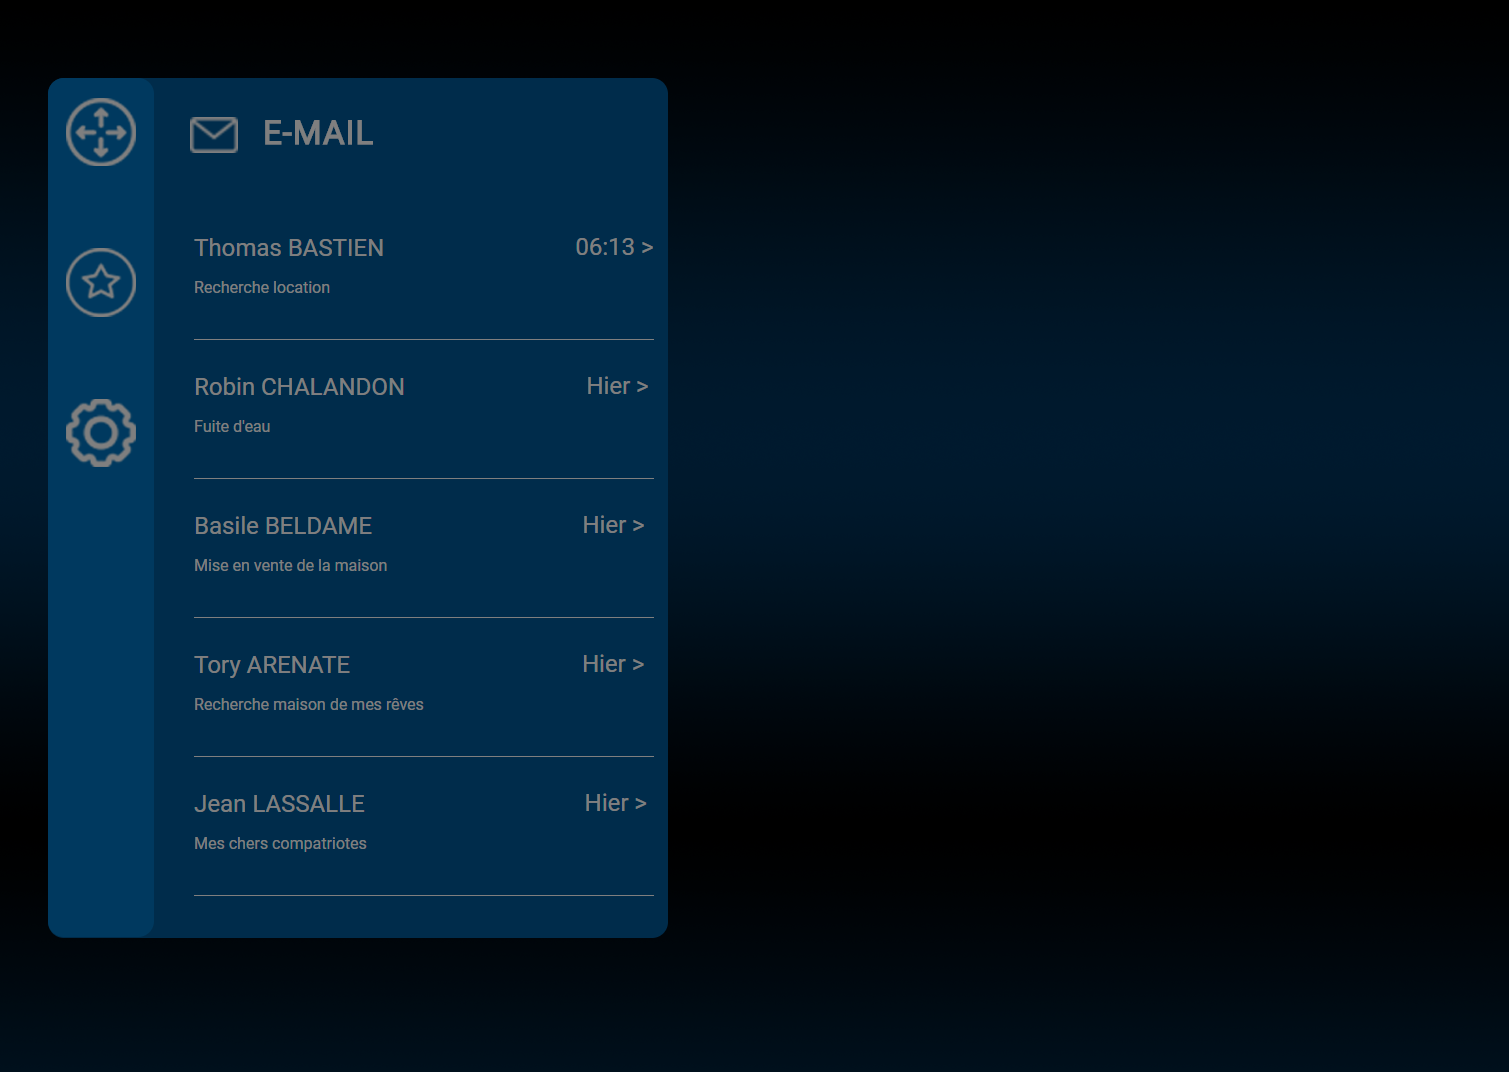
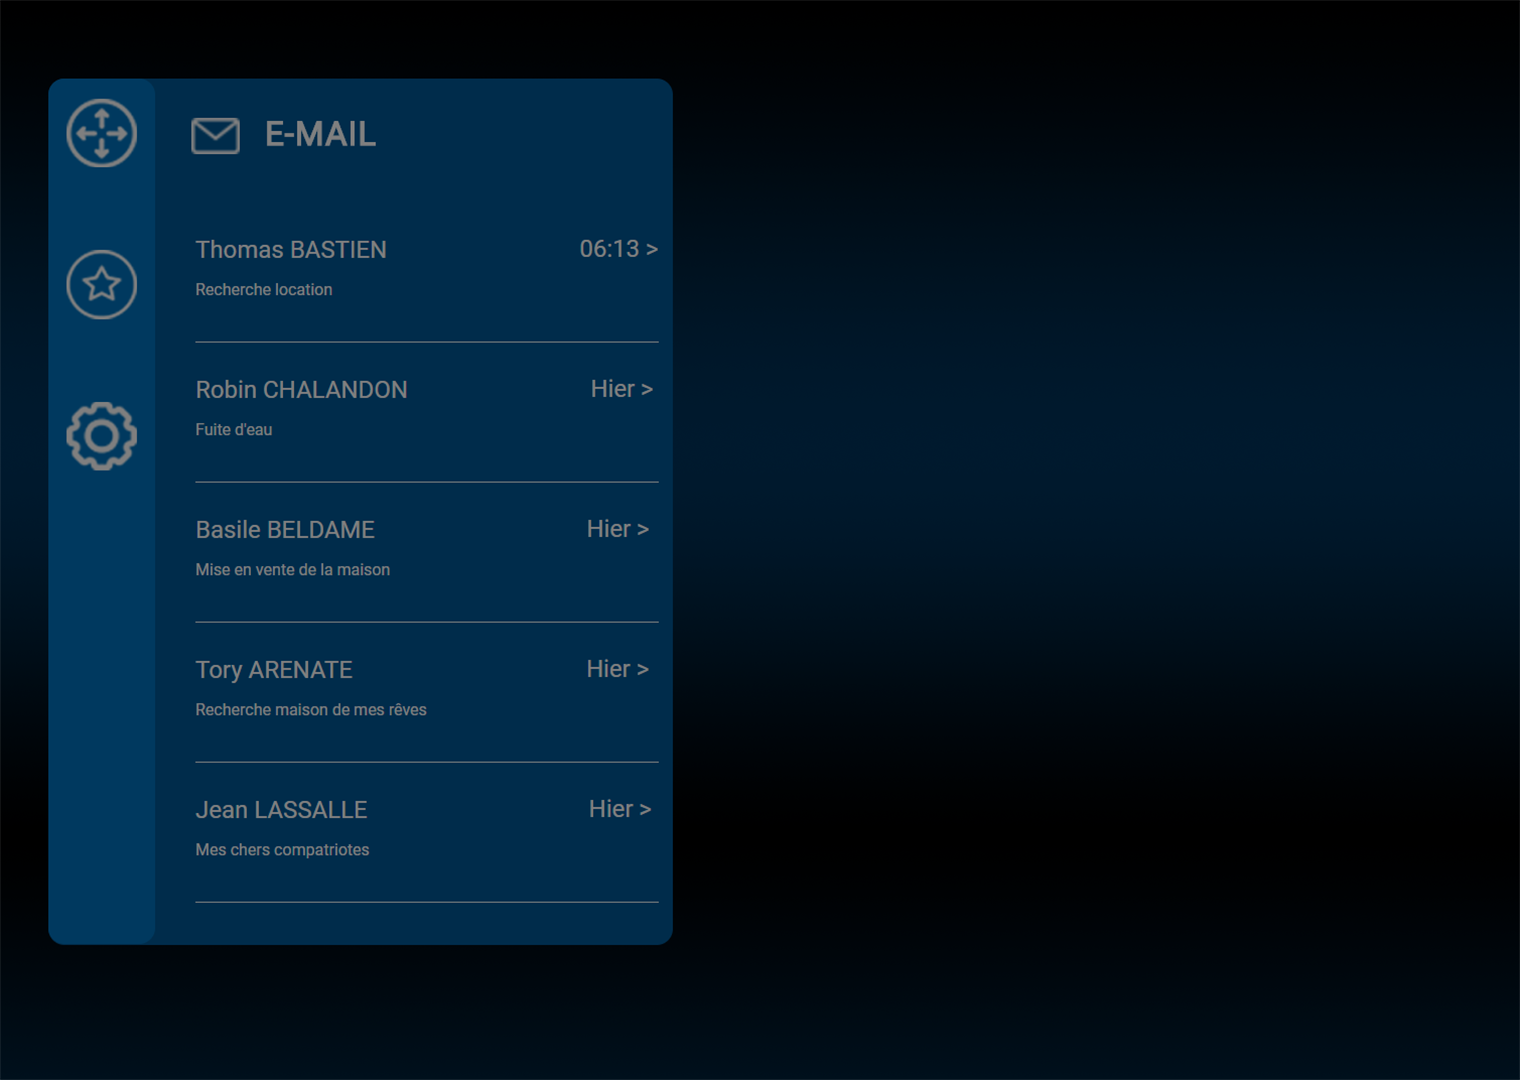
Un peu responsive on va dire

diff --git a/interfaceagent/style.css b/interfaceagent/style.css
@@ -128,7 +128,6 @@ body {
 
 #open_content {
     background: url('img/bgmailopen.png');
-    background-size: 102%;
     width: 80%;
     height: 1000px;
     margin-top: 0;
@@ -137,10 +136,10 @@ body {
 }
 
 #mail {
-    width: 920px;
-    height: 500px;
-    margin-top: 10em;
-    margin-left: 17em;
+    width: 420px;
+    height: 600px;
+    margin-top: 3em;
+    margin-left: 6em;
     border-radius: 1em;
     padding: 2em 4em;
 }
@@ -152,13 +151,13 @@ body {
 }
 
 #time_received {
+    margin-bottom: 30px;
     font-size: 30px;
     display: inline-block;
-    margin-left: 430px;
 }
 
 #sub-title {
-    margin-bottom: 3em;
+    display: inherit;
 }
 
 #mail_body {
